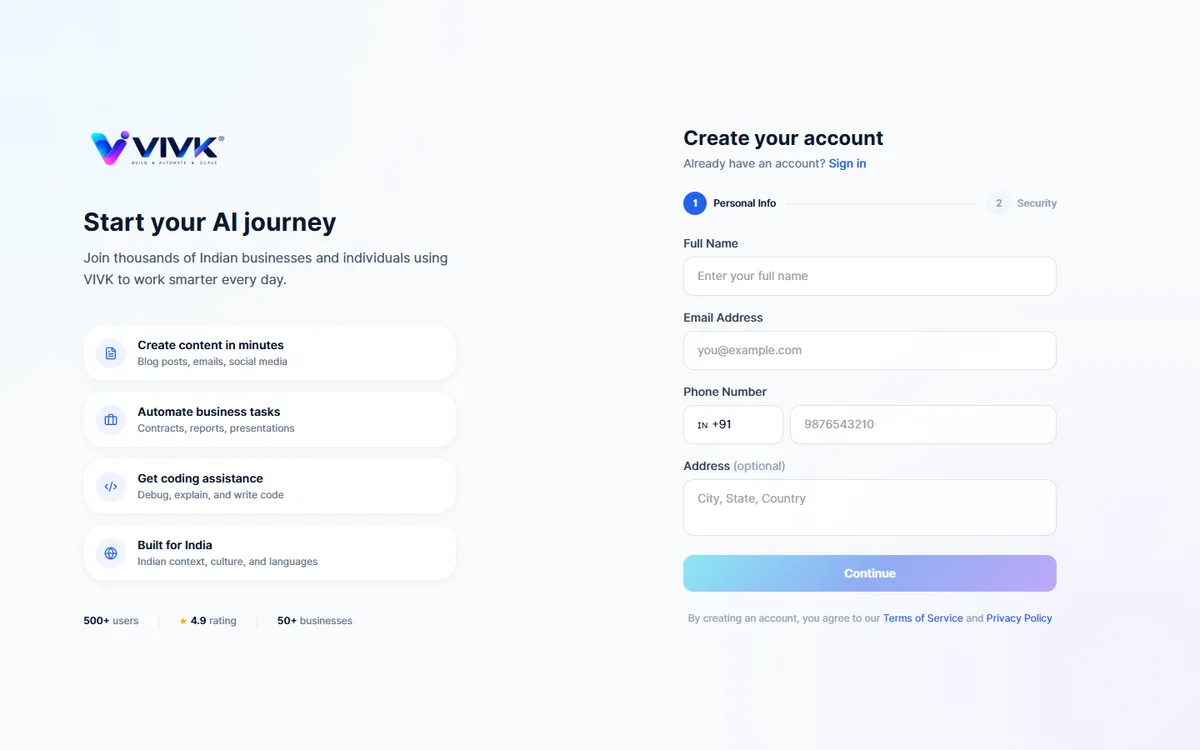
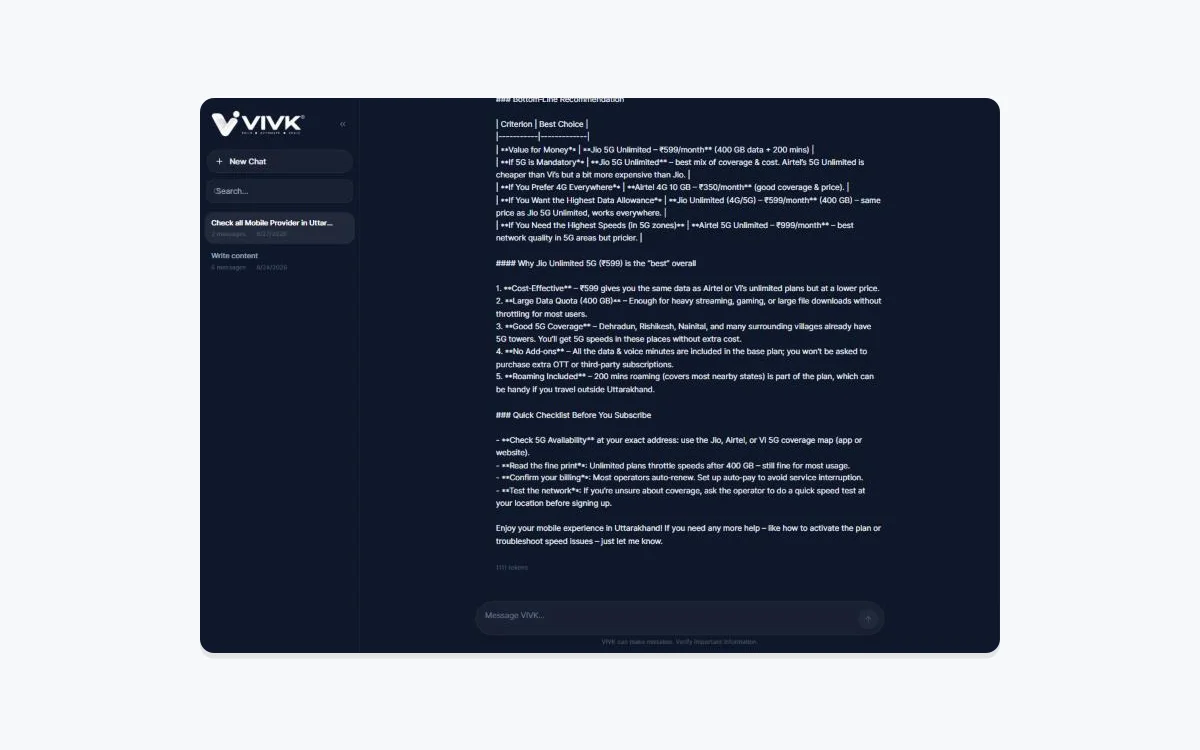
VIVK: 6 screenshots (chat, dashboard, Pro plan) and Pro plan details
- New: chat answer (account e-mail covered), dashboard (cropped below the
  greeting, no name or e-mail) and the Billing & Subscription page
- Order: chat, dashboard, sign-up, Pro plan, plans table, phone sign-in
- Settings, empty conversations and payment-history screens not used
  (e-mail, account ID, order ID)
- Features/FAQ: Analyze action and what Pro includes, from the screens

diff --git a/config/lalogix.php b/config/lalogix.php
@@ -125,8 +125,15 @@ return [
             'demo' => ['label' => 'Try VIVK free', 'url' => 'https://vivk.in'],
             'site_url' => 'https://vivk.in',
             'play_store_url' => null,
-            // Real screenshots (2026-11-20). TODO: add a chat screen with a question and answer.
-            'screenshots' => $shots('vivk', 'VIVK', ['create your account and see what VIVK does', 'sign in on your phone', 'plans and prices']),
+            // Real screenshots (2026-11-20); account e-mail masked or cropped out.
+            'screenshots' => $shots('vivk', 'VIVK', [
+                'a detailed answer in the chat',
+                'your dashboard: ask, create content, analyze, code',
+                'create your account and see what VIVK does',
+                'what the Pro plan includes',
+                'plans and prices',
+                'sign in on your phone',
+            ]),
             'outcomes' => [
                 ['title' => 'Content in minutes', 'text' => 'Draft blog posts, e-mails and social media posts in minutes.'],
                 ['title' => 'Less routine work', 'text' => 'Get help with contracts, reports and presentations.'],
@@ -136,6 +143,8 @@ return [
                 ['title' => 'Create content in minutes', 'text' => 'Blog posts, e-mails and social media posts.'],
                 ['title' => 'Automate business tasks', 'text' => 'Contracts, reports and presentations.'],
                 ['title' => 'Coding assistance', 'text' => 'Debug, explain and write code.'],
+                ['title' => 'Analyze', 'text' => 'Get insights from your questions and data.'],
+                ['title' => 'Pro plan', 'text' => 'Unlimited messages and chat history, priority support and conversation export.'],
                 ['title' => 'Built for India', 'text' => 'Understands Indian context, culture and languages.'],
                 ['title' => 'Works in the browser', 'text' => 'Sign up with your e-mail and use it on phone or computer, nothing to install.'],
                 ['title' => 'Private conversations', 'text' => 'Conversations are encrypted, and you can delete them at any time.'],
@@ -143,6 +152,7 @@ return [
             'who_for' => ['Indian businesses that write a lot of content and documents', 'Individuals who want a writing and coding assistant', 'Teams that want to save time on routine work'],
             'faq' => [
                 ['q' => 'Is VIVK free?', 'a' => 'Yes, there is a free plan. Pro costs ₹999/month and Business ₹4,999/month, including taxes. New Pro subscribers may get a 7-day free trial.'],
+                ['q' => 'What do I get with Pro?', 'a' => 'Unlimited messages, unlimited chat history, priority support and the option to export your conversations, on the Claude Sonnet AI model.'],
                 ['q' => 'Can I cancel any time?', 'a' => 'Yes. Your plan stays active until the end of the period you paid for, then moves to the free plan.'],
                 ['q' => 'Do I need to install anything?', 'a' => 'No. VIVK works in your web browser.'],
                 ['q' => 'Who bills VIVK?', 'a' => 'VIVK subscriptions are billed by LALogix Enterprises, with a GST invoice.'],
